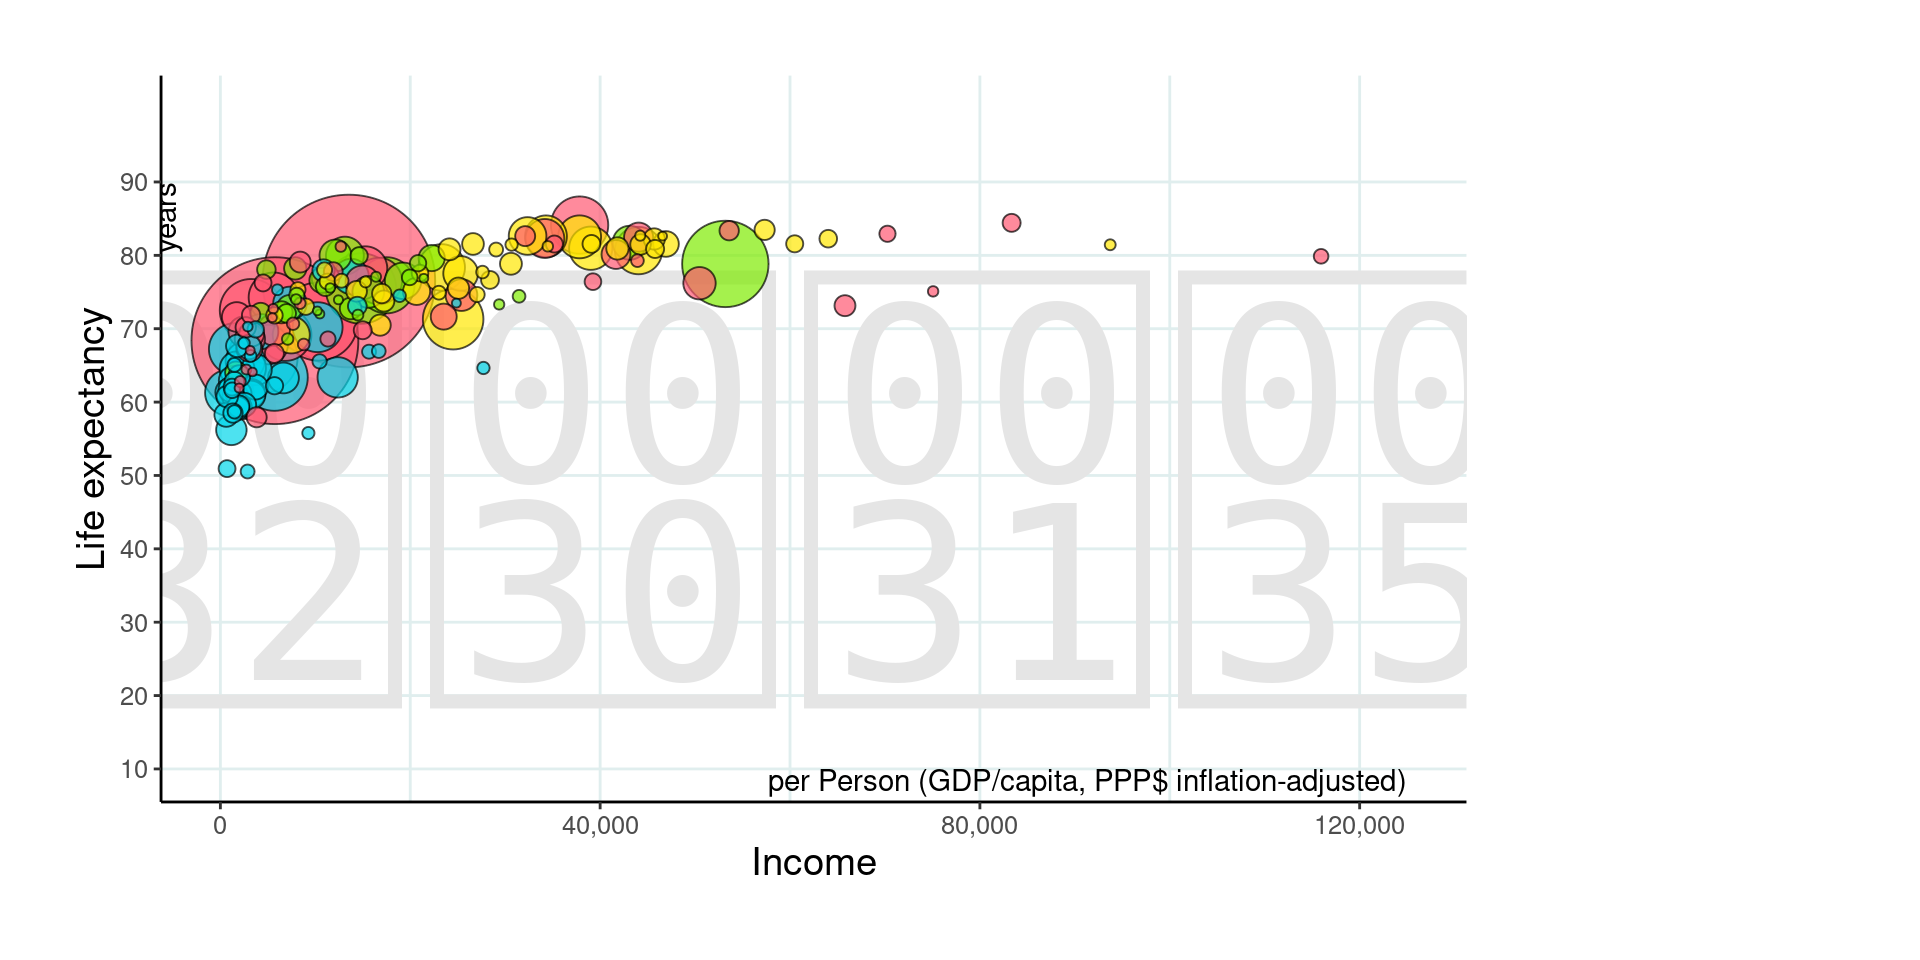
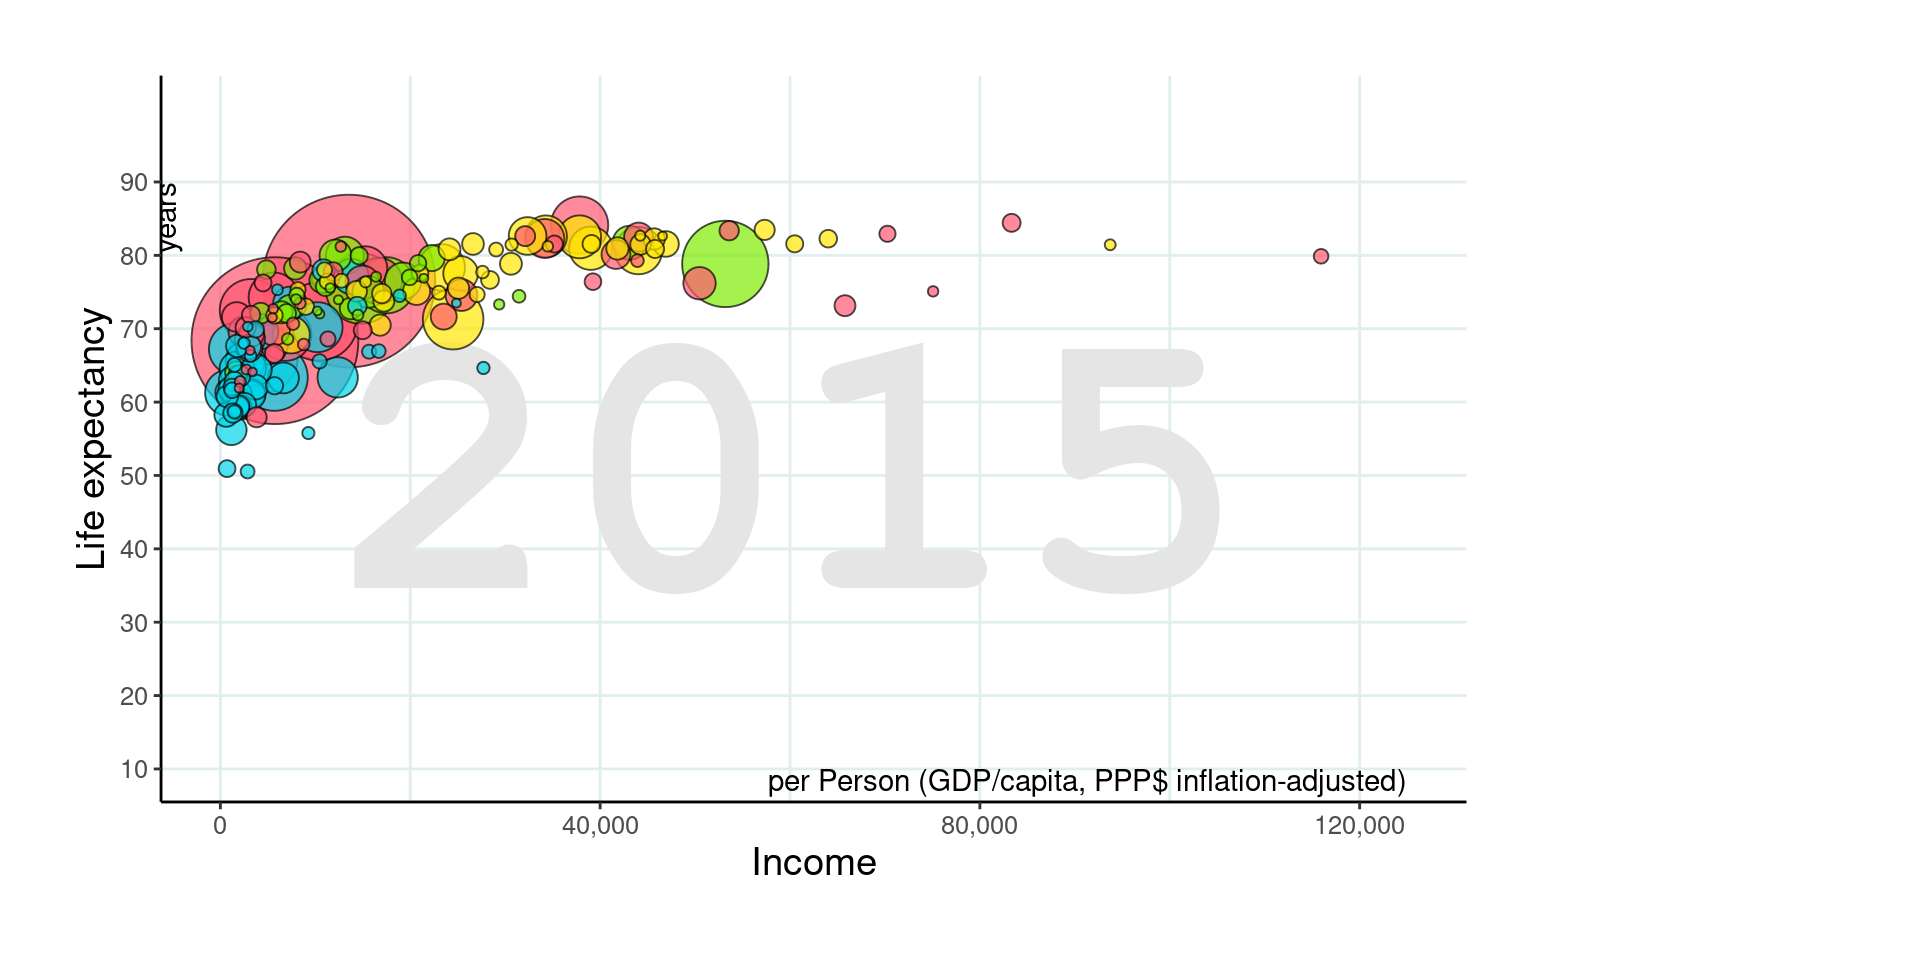
Fix encoding error with mono-space.

Changed region(s): [[0.0625, 0.2812, 0.7812, 0.75], [0.0625, 0.2812, 0.125, 0.3438]]

diff --git a/content/post/2021-07-07-ggplotting-ggplotpourri.html b/content/post/2021-07-07-ggplotting-ggplotpourri.html
@@ -335,7 +335,7 @@ weltkarte &lt;- image_read(&quot;./ggplotting-gapminder-map.png&quot;)</code></p
   # Grafik anfordern
   ggplot(aes(x=Income, y=Expectancy)) +
   # Neu: Text für die Jahreszahl (2011) einfügen, sodass dieser im Hintergrund steht
-  annotate(&quot;text&quot;, x=60000, y=50, label=&quot;2015&quot;, size=70, colour =&quot;grey90&quot;, family = &quot;mono&quot;, fontface = 1) +
+  annotate(&quot;text&quot;, x=60000, y=50, label=&quot;2015&quot;, size=50, colour =&quot;grey90&quot;, family = &quot;Courier New&quot;, fontface = 2) +
   # Neu: Farbthema: heller Hintergrund, schwarze Linien an x- und y-Achse
   theme_classic() + 
   # Wie bisher: Punkte einzeichnen --&gt; Streu-Punkt-Diagramm,
